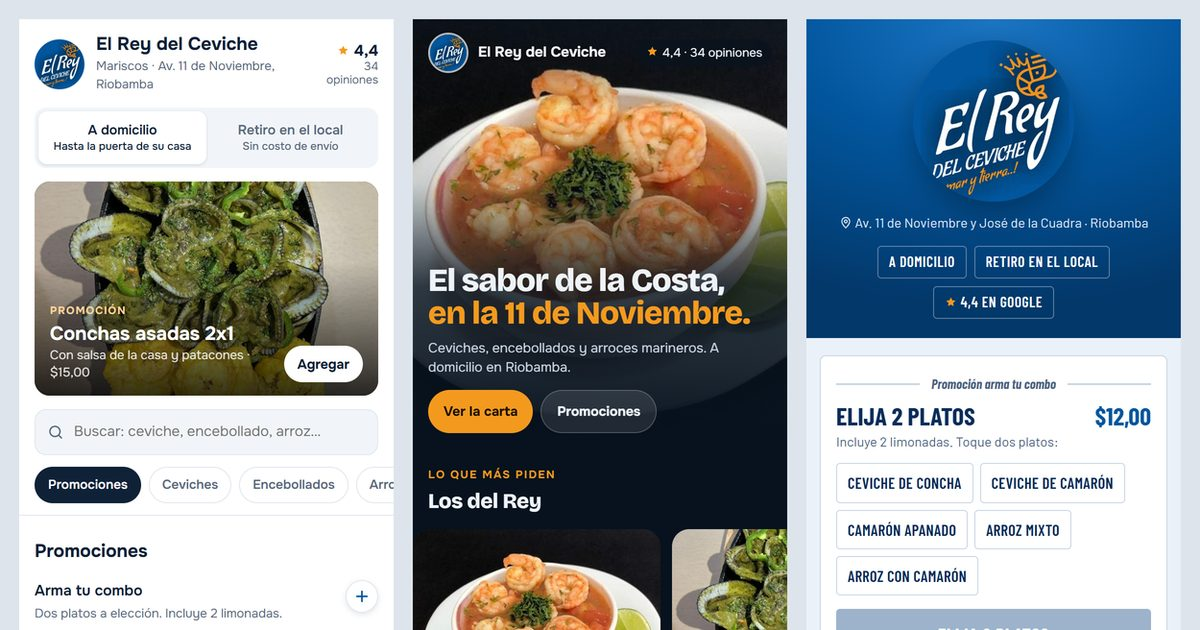
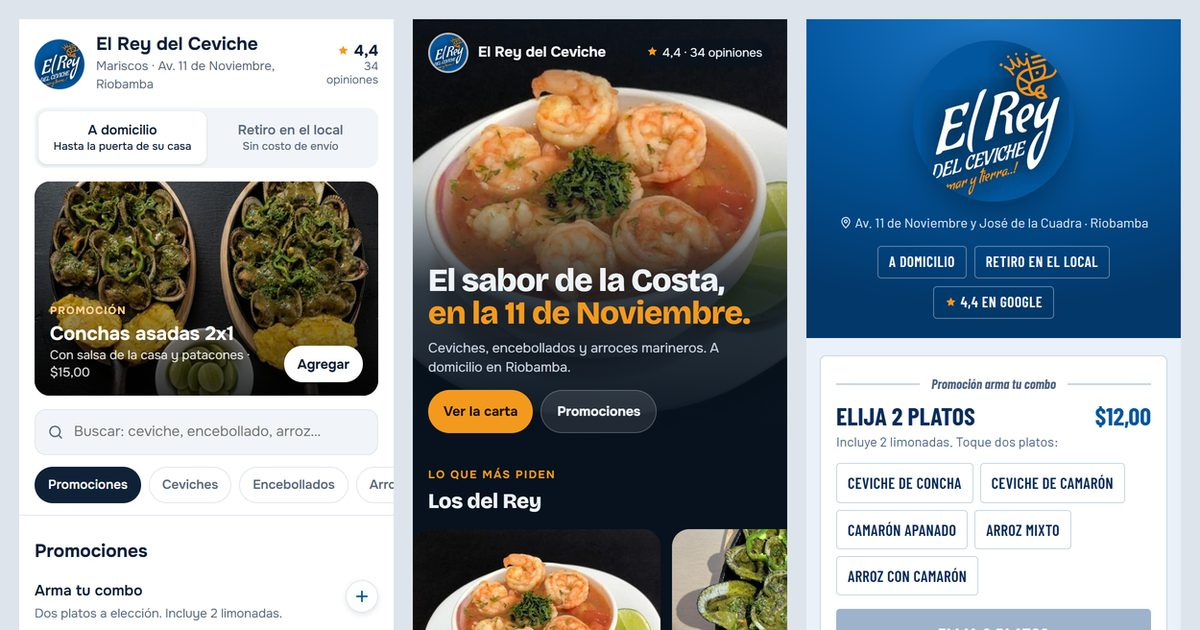
feat(rey-del-ceviche): conchas 2x1 y bandera del Rey con foto editada (Gemini, plato real)

Changed region(s): [[0.0308, 0.2714, 0.3392, 0.6333]]

diff --git a/rey-del-ceviche/modelos/index.html b/rey-del-ceviche/modelos/index.html
@@ -249,14 +249,14 @@ input,textarea{font:inherit}
 /* ===== Carta de El Rey del Ceviche (de su carta en FlipHTML5, nov-2026) ===== */
 const F = {
   encebollado:'fotos/encebollado.jpg', encebolladoRey:'fotos/encebollado-rey.jpg',
-  concha:'fotos/ceviche-concha.jpg', conchas:'fotos/conchas-asadas.jpg', cevCam:'fotos/ceviche-camaron.jpg', cevPes:'fotos/ceviche-pescado.jpg', arroz:'fotos/arroz-mixto.jpg', encocado:'fotos/encocado.jpg',
+  concha:'fotos/ceviche-concha.jpg', conchas:'fotos/conchas-asadas.jpg', conchas2x1:'fotos/conchas-2x1.jpg', bandera:'fotos/bandera-rey.jpg', cevCam:'fotos/ceviche-camaron.jpg', cevPes:'fotos/ceviche-pescado.jpg', arroz:'fotos/arroz-mixto.jpg', encocado:'fotos/encocado.jpg',
   apanado:'fotos/camaron-apanado.jpg', brujo:'fotos/brujo.jpg', logo:'fotos/logo.jpg'
 };
 const COMBO5 = ['Ceviche de concha','Ceviche de camarón','Camarón apanado','Arroz mixto','Arroz con camarón'];
 const CARTA = [
  {id:'promos', cat:'Promociones', items:[
   {id:'arma', n:'Arma tu combo', d:'Dos platos a elección. Incluye 2 limonadas.', p:12, op:[{t:'Primer plato',o:COMBO5},{t:'Segundo plato',o:COMBO5}]},
-  {id:'conchas2x1', n:'Conchas asadas 2x1', d:'Conchas + salsa de la casa y patacones.', p:15, f:F.conchas},
+  {id:'conchas2x1', n:'Conchas asadas 2x1', d:'Conchas + salsa de la casa y patacones.', p:15, f:F.conchas2x1},
   {id:'chevere', n:'Combo chévere', d:'Un plato de mar + un arroz o apanado.', p:7.99, op:[{t:'Plato de mar',o:['Encebollado','Ceviche de camarón','Ceviche de concha']},{t:'Acompáñelo con',o:['Arroz mixto','Arroz con camarón','Camarón apanado']}]},
   {id:'oficina', n:'Combo oficina', d:'Guata + encebollado + arroz + bebida.', p:3.25, tag:'Lun a mié'}
  ]},
@@ -302,7 +302,7 @@ const CARTA = [
  {id:'guatas', cat:'Guatas', items:[
   {id:'gu-sol', n:'Guata sola', d:'Maduro + huevo.', p:3.50},
   {id:'gu-ban', n:'Bandera simple', d:'Albacora + guatita + maduro.', p:6.50},
-  {id:'gu-rey', n:'Bandera del Rey', d:'Albacora + guatita + ceviche de camarón + ceviche de concha + maduro.', p:8.99}
+  {id:'gu-rey', n:'Bandera del Rey', d:'Albacora + guatita + ceviche de camarón + ceviche de concha + maduro.', p:8.99, f:F.bandera}
  ]},
  {id:'porciones', cat:'Picaditas y porciones', items:[
   {id:'pi-cam', n:'Picadita de camarón', d:'', p:3.50},
@@ -460,7 +460,7 @@ function renderA(){
   return '<div class="mA">' +
     '<header class="top"><img src="' + F.logo + '" alt="Logo El Rey del Ceviche"><div><h1>El Rey del Ceviche</h1><p>Mariscos · Av. 11 de Noviembre, Riobamba</p></div><div class="rate"><b>' + ICON.star + ' ' + LOCAL.rating + '</b>' + LOCAL.resenas + ' opiniones</div></header>' +
     '<div class="modes"><button type="button" data-modo-top="dom" aria-pressed="true">A domicilio<small>Hasta la puerta de su casa</small></button><button type="button" data-modo-top="ret" aria-pressed="false">Retiro en el local<small>Sin costo de envío</small></button></div>' +
-    '<div class="hero"><img src="' + F.conchas + '" alt="Conchas asadas con patacones"><div><div><em>Promoción</em><h2>Conchas asadas 2x1</h2><p>Con salsa de la casa y patacones · $15,00</p></div><button type="button" data-add="conchas2x1">Agregar</button></div></div>' +
+    '<div class="hero"><img src="' + F.conchas2x1 + '" alt="Conchas asadas 2x1 con patacones"><div><div><em>Promoción</em><h2>Conchas asadas 2x1</h2><p>Con salsa de la casa y patacones · $15,00</p></div><button type="button" data-add="conchas2x1">Agregar</button></div></div>' +
     '<label class="search">' + ICON.search + '<input id="qA" type="search" placeholder="Buscar: ceviche, encebollado, arroz…" aria-label="Buscar en la carta"></label>' +
     '<nav class="chips" aria-label="Secciones">' + CARTA.map((c, k) => '<button type="button" data-go="s-' + c.id + '" class="' + (k ? '' : 'on') + '">' + esc(c.cat) + '</button>').join('') + '</nav>' +
     '<div id="secA">' + sec + '</div>' +
